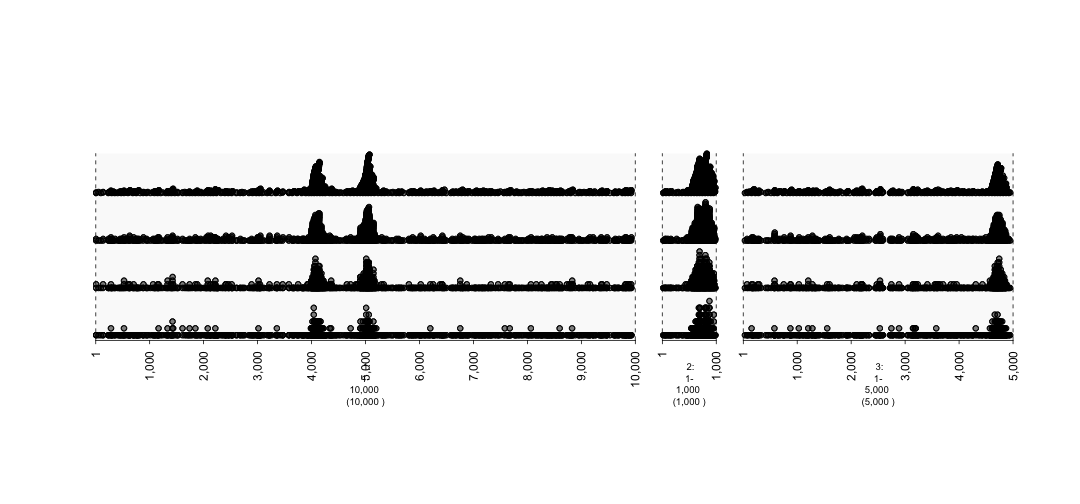
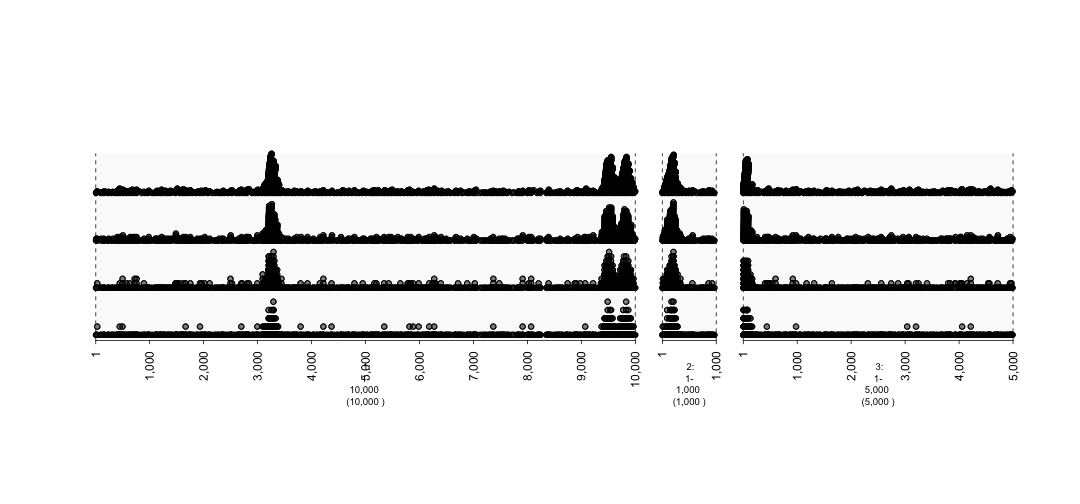
edit vignette

Changed region(s): [[0.0917, 0.2976, 0.9472, 0.6845], [0.7944, 0.3274, 0.9472, 0.3869]]

diff --git a/rtdocs/vignetteMutations/vignetteMutations.rst b/rtdocs/vignetteMutations/vignetteMutations.rst
@@ -71,7 +71,7 @@ Graphing Variants Tutorial
 .. sourcecode:: r
     
 
-    ##..mut = sample(tiles, 2000, prob = prob, replace = TRUE) 
+    mut = sample(tiles, 2000, prob = prob, replace = TRUE) 
     
     print(mut)
 
@@ -81,17 +81,17 @@ Graphing Variants Tutorial
     ## GRanges object with 2000 ranges and 2 metadata columns:
     ##          seqnames       ranges strand   |  query.id   tile.id
     ##             <Rle>    <IRanges>  <Rle>   | <integer> <integer>
-    ##      [1]        1 [5128, 5128]      +   |         1      5128
-    ##      [2]        1 [5053, 5053]      +   |         1      5053
-    ##      [3]        2 [ 755,  755]      +   |         2     10755
-    ##      [4]        3 [1315, 1315]      +   |         3     12315
-    ##      [5]        3 [2219, 2219]      +   |         3     13219
+    ##      [1]        3 [2736, 2736]      +   |         3     13736
+    ##      [2]        3 [2386, 2386]      +   |         3     13386
+    ##      [3]        1 [5550, 5550]      +   |         1      5550
+    ##      [4]        2 [ 925,  925]      +   |         2     10925
+    ##      [5]        1 [1266, 1266]      +   |         1      1266
     ##      ...      ...          ...    ... ...       ...       ...
-    ##   [1996]        3 [4799, 4799]      +   |         3     15799
-    ##   [1997]        1 [1722, 1722]      +   |         1      1722
-    ##   [1998]        3 [3781, 3781]      +   |         3     14781
-    ##   [1999]        1 [5062, 5062]      +   |         1      5062
-    ##   [2000]        2 [ 680,  680]      +   |         2     10680
+    ##   [1996]        1 [9548, 9548]      +   |         1      9548
+    ##   [1997]        1 [9526, 9526]      +   |         1      9526
+    ##   [1998]        3 [3072, 3072]      +   |         3     14072
+    ##   [1999]        1 [ 446,  446]      +   |         1       446
+    ##   [2000]        2 [ 487,  487]      +   |         2     10487
     ##   -------
     ##   seqinfo: 3 sequences from an unspecified genome
 
